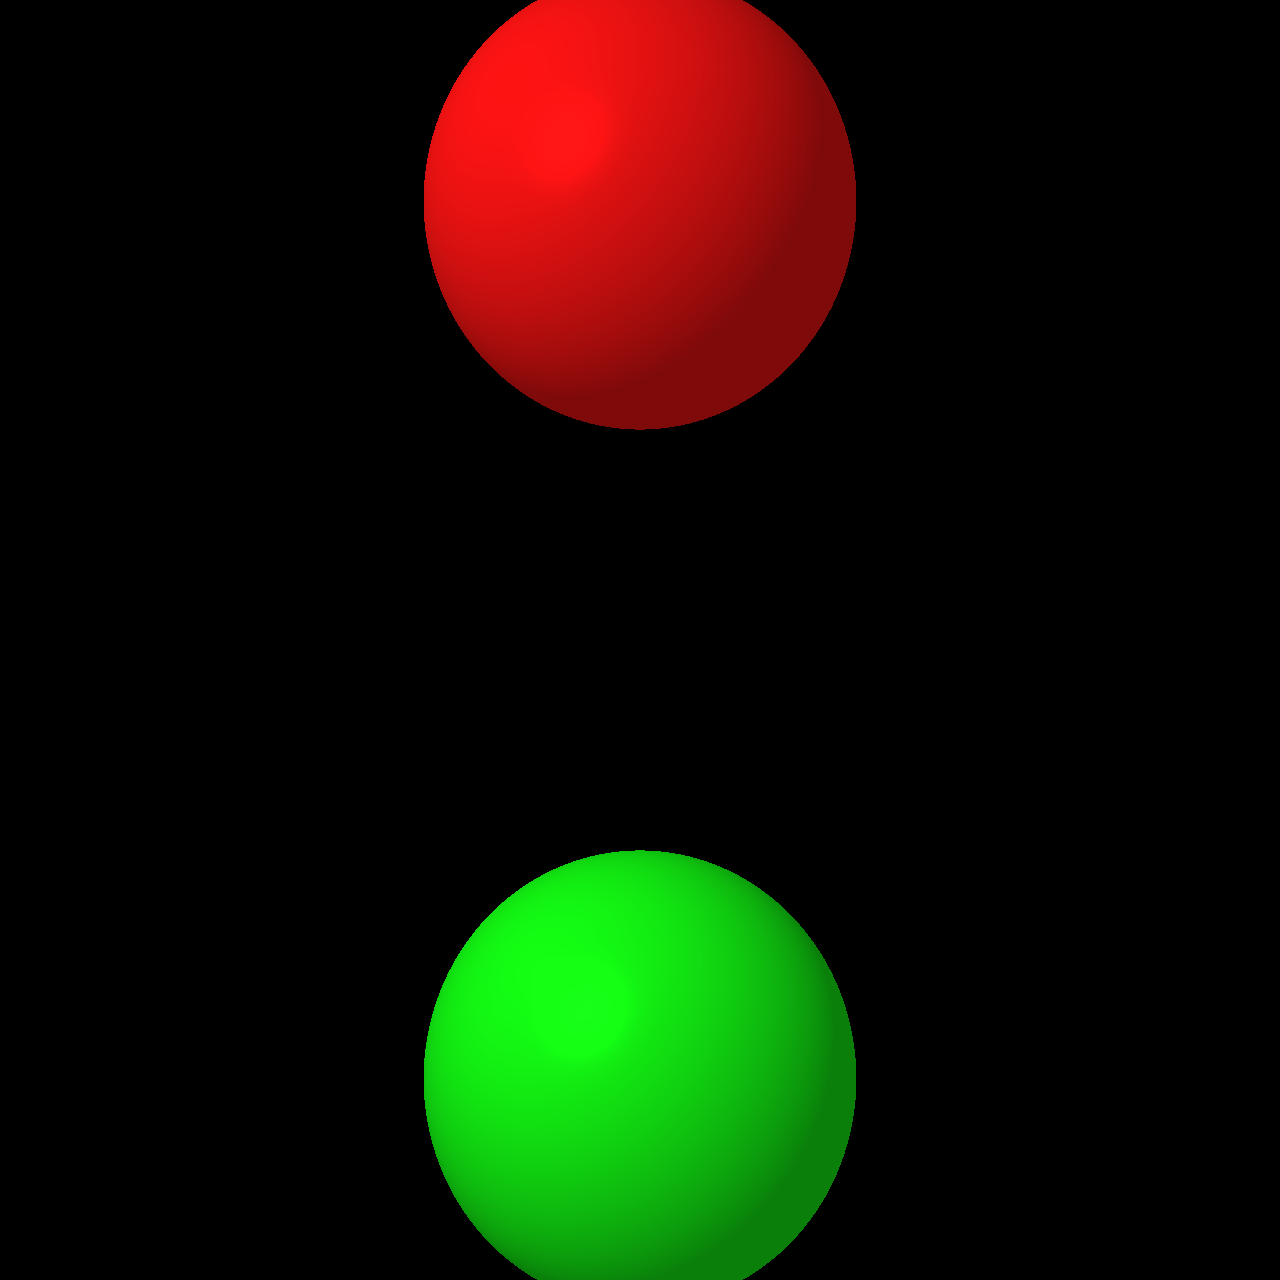
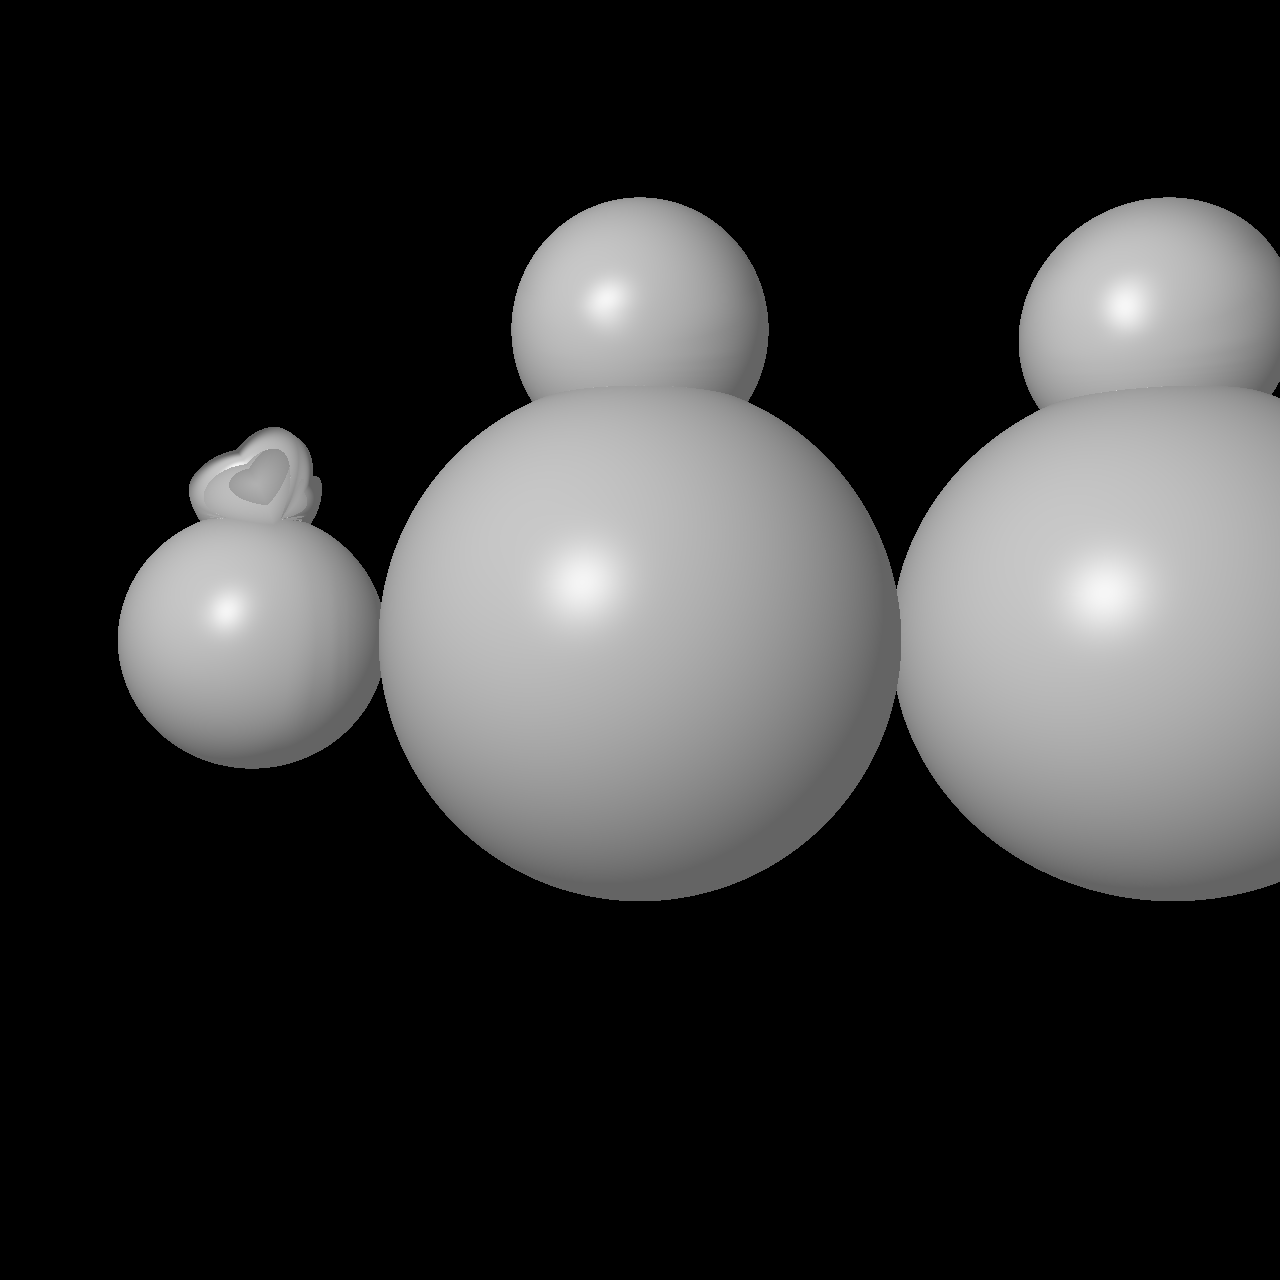
new sdf method

diff --git a/src/main.rs b/src/main.rs
@@ -3,7 +3,7 @@ use ndarray::{Array3};
 use std::time::Instant;
 use std::ops::{Add, Div, Mul, Sub, Neg};
 use std::cmp;
-//use rayon::prelude::*;
+use crate::Op::{Union, Move, Scale, Sphere};
 
 
 #[derive(Debug, Clone, Copy)]
@@ -137,70 +137,84 @@ impl Neg for Vec3 {
     }
 }
 
-
-struct Sphere {
-    pos: Vec3,
-    radius: f32,
-    color: Vec3,
-    light_prop: Vec3,
-    alpha: f32,
-}
-
-impl Sphere {
-    fn sdf(&self, ray_pos: Vec3) -> f32 {
-        Vec3::len(&(ray_pos - self.pos)) - self.radius
-    }
-}
-
-impl Copy for Sphere { }
-
-impl Clone for Sphere {
-    fn clone(&self) -> Sphere {
-        *self
-    }
-}
-
-// struct Ops {
-//     sdf_a: f32,
-//     color_a: Vec3,
-//     sdf_b: f32,
-//     color_b: Vec3
+// #[derive(Debug, Clone, Copy)]
+// struct Sphere {
+//     pos: Vec3,
+//     radius: f32,
+//     color: Vec3,
+//     light_prop: Vec3,
+//     alpha: f32,
 // }
 
-// impl Ops {
-//     fn Union(&self, ray_pos: Vec3) -> (f32, Vec3) {
-//         //f32::min(self.object_a.sdf(ray_pos),self.object_b.sdf(ray_pos))
-//         //sdf_a = self.object_a.sdf(ray_pos)
-//         //sdf_b = self.object_b.sdf(ray_pos)
-
-//         if self.sdf_a >= self.sdf_b {
-//             return (self.sdf_b, self.color_b)
-//         } else {
-//             return (self.sdf_a, self.color_a)
-//         }
+// impl Sphere {
+//     fn sdf(&self, ray_pos: Vec3) -> f32 {
+//         Vec3::len(&(ray_pos - self.pos)) - self.radius
 //     }
-// } //bygga träd med dessa klasser
+// }
+
+// #[derive(Debug, Clone, Copy)]
+// struct SkySphere {
+//     pos: Vec3,
+//     radius: f32,
+//     color: Vec3,
+//     light_prop: Vec3,
+//     alpha: f32,
+// }
+
+// impl SkySphere {
+//     fn sdf(&self, ray_pos: Vec3) -> f32 {
+//         self.radius - Vec3::len(&(ray_pos - self.pos))
+//     }
+// }
+
+// #[derive(Debug, Clone, Copy)]
+// struct Torus {
+//     pos: Vec3,
+//     ra: f32,
+//     rb: f32,
+//     color: Vec3,
+//     light_prop: Vec3,
+//     alpha: f32,
+// }
+
+// impl Torus {
+//     fn sdf(&self, ray_pos: Vec3) -> f32 {
+//         let h = ((ray_pos.x-self.pos.x).powi(2)+(ray_pos.z-self.pos.z).powi(2)).sqrt();
+//         return ((h-self.ra).powi(2)+(ray_pos.y-self.pos.y).powi(2)).sqrt()-self.rb
+//     }
+// }
+
+// #[derive(Debug, Clone, Copy)]
+// enum Shape {
+//     Sphere(Sphere),
+//     Torus(Torus),
+//     SkySphere(SkySphere),
+// }
+
+fn lerp(a: f32, b: f32, h: f32) -> f32 {
+    return a*h+b*(1.0f32-h)
+} 
 
 
-fn union(sdf_a: f32 , color_a: Vec3, sdf_b: f32 , color_b: Vec3, ray_pos: Vec3) -> (f32, Vec3) {
-    if sdf_a >= sdf_b {
-        return (sdf_b, color_b)
-    } else {
-        return (sdf_a, color_a)
+#[derive(Debug, Clone)]
+enum Op{
+    Union(Box<Op>, Box<Op>),
+    Sphere(),
+    Move(Box<Op>, Vec3),
+    Scale(Box<Op>, f32),
+}
+
+impl Op { 
+    fn sdf(&self, ray_pos: Vec3) -> f32 { 
+        match &self { 
+            Self::Union(a,b) => a.sdf(ray_pos).min(b.sdf(ray_pos)),
+            Self::Sphere() => Vec3::len(&ray_pos)-1.,
+            Self::Move(a,vec) => a.sdf(ray_pos - *vec),
+            Self::Scale(a,scale) => a.sdf(ray_pos/ *scale),
+        }
     }
 }
 
-
-fn op_tree(objects: &Vec<Sphere> , ray_pos: Vec3) -> (f32, Vec3) {    
-    let sdf_a = objects[0].sdf(ray_pos);
-    let color_a = objects[0].color;
-    
-    let sdf_b = objects[1].sdf(ray_pos);
-    let color_b = objects[1].color;
-
-    let (sdf, color) = union(sdf_a, color_a, sdf_b, color_b, ray_pos);
-    return (sdf, color)
-}
 
 
 fn array_to_image(arr: Array3<u8>) -> RgbImage {
@@ -216,7 +230,7 @@ fn array_to_image(arr: Array3<u8>) -> RgbImage {
 fn ray(
     start_pos: Vec3,
     u_vec: Vec3,
-    objects: &Vec<Sphere>,
+    objects: &Op,
     bounce_depth: u8,
 ) -> Vec3 {
 
@@ -224,7 +238,8 @@ fn ray(
     const MAX_BOUNCE_DEPTH: u8 = 5;
     const MAX_DISTANCE: f32 = 128.0;
     
-    let background_color = Vec3::zeros();
+    let background_color_1 = Vec3{x: 10.0f32, y: 10.0f32, z:155.0f32};
+    let background_color_2 = Vec3{x: 132.0f32, y: 206.0f32, z:235.0f32};
 
     let mut ray_pos = start_pos.clone();
     let mut impact_normal = Vec3::zeros();
@@ -240,17 +255,18 @@ fn ray(
     while hit == false {
         
         //find the step length
-        //for object in objects.iter() {
-        let (sdf_val, color) = op_tree(objects, ray_pos);
-        //}
-        
+        let sdf_val = objects.sdf(ray_pos);
+        let color = Vec3{x:200.0f32, y:200.0f32, z:200.0f32};
+
         //take the step
         ray_pos = ray_pos + u_vec*sdf_val;
         
-
         //check if outside scene
         if Vec3::len(&ray_pos) > MAX_DISTANCE {
-            return background_color;
+            //let r = lerp(background_color_1.x, background_color_2.x, ray_pos.y/MAX_DISTANCE);
+            //let g = lerp(background_color_1.y, background_color_2.y, ray_pos.y/MAX_DISTANCE);
+            //let b = lerp(background_color_1.z, background_color_2.z, ray_pos.y/MAX_DISTANCE);
+            return Vec3{x:0.0f32, y:0.0f32, z:0.0f32};
         }
 
         //check if hit
@@ -261,10 +277,10 @@ fn ray(
             if bounce_depth < MAX_BOUNCE_DEPTH {
                 //find normal
                 
-                let (distc,_) = op_tree(objects, Vec3{x:ray_pos.x, y:ray_pos.y, z:ray_pos.z});        
-                let (distx,_) = op_tree(objects, Vec3{x:ray_pos.x+EPSILON, y:ray_pos.y, z:ray_pos.z});                 
-                let (disty,_) = op_tree(objects, Vec3{x:ray_pos.x, y:ray_pos.y+EPSILON, z:ray_pos.z});                  
-                let (distz,_) = op_tree(objects, Vec3{x:ray_pos.x, y:ray_pos.y, z:ray_pos.z+EPSILON});
+                let distc = objects.sdf(Vec3{x:ray_pos.x, y:ray_pos.y, z:ray_pos.z});        
+                let distx = objects.sdf(Vec3{x:ray_pos.x+EPSILON, y:ray_pos.y, z:ray_pos.z});                 
+                let disty = objects.sdf(Vec3{x:ray_pos.x, y:ray_pos.y+EPSILON, z:ray_pos.z});                  
+                let distz = objects.sdf(Vec3{x:ray_pos.x, y:ray_pos.y, z:ray_pos.z+EPSILON});
                 let normal = Vec3::normalize(&Vec3{x:(distx-distc)/EPSILON, y:(disty-distc)/EPSILON, z:(distz-distc)/EPSILON});
                 
 
@@ -330,23 +346,19 @@ fn main() {
         z: 0.0f32,
     };
 
-    let mut objects = vec![];
+    let snow_man = Union(
+        Box::new(Sphere()),
+        Box::new(Move(Box::new(Scale(Box::new(Sphere{}), 0.5)), Vec3{x:0., y:-1.2, z:0.0})));
 
-    objects.push( Sphere{
-        pos: Vec3{x:3.0, y:1.0, z:0.0},
-        radius: 0.5f32,
-        color: Vec3{x:20.0, y:255.0, z:20.0},
-        light_prop: Vec3{x: 1.0, y:1.0, z:1.0},
-        alpha: 20.0f32
-    });
+    let objects = Union(
+        Box::new(snow_man.clone()), //Mom snowman
+        Box::new(Union(
+            Box::new(Move(Box::new(snow_man.clone()), Vec3{x:0., y:0., z:2.})), //Dad snowman
+            Box::new(Move(Box::new(Scale(Box::new(snow_man.clone()), 0.5)), Vec3{x:0., y:0., z:-1.5})) //Baby snowman
+        ))
+    );
 
-    objects.push( Sphere{
-        pos: Vec3{x:3.0, y:-1.0, z:0.0},
-        radius: 0.5f32,
-        color: Vec3{x:255.0, y:20.0, z:20.0},
-        light_prop: Vec3{x: 1.0, y:1.0, z:1.0},
-        alpha: 20.0f32
-    });
+    let objects = Box::new(Move(Box::new(objects), Vec3{x:5., y:0., z:0.}));
 
     //loop to find bin positions
     for ((i, j, c), v) in bin_pos_array.indexed_iter_mut() {
